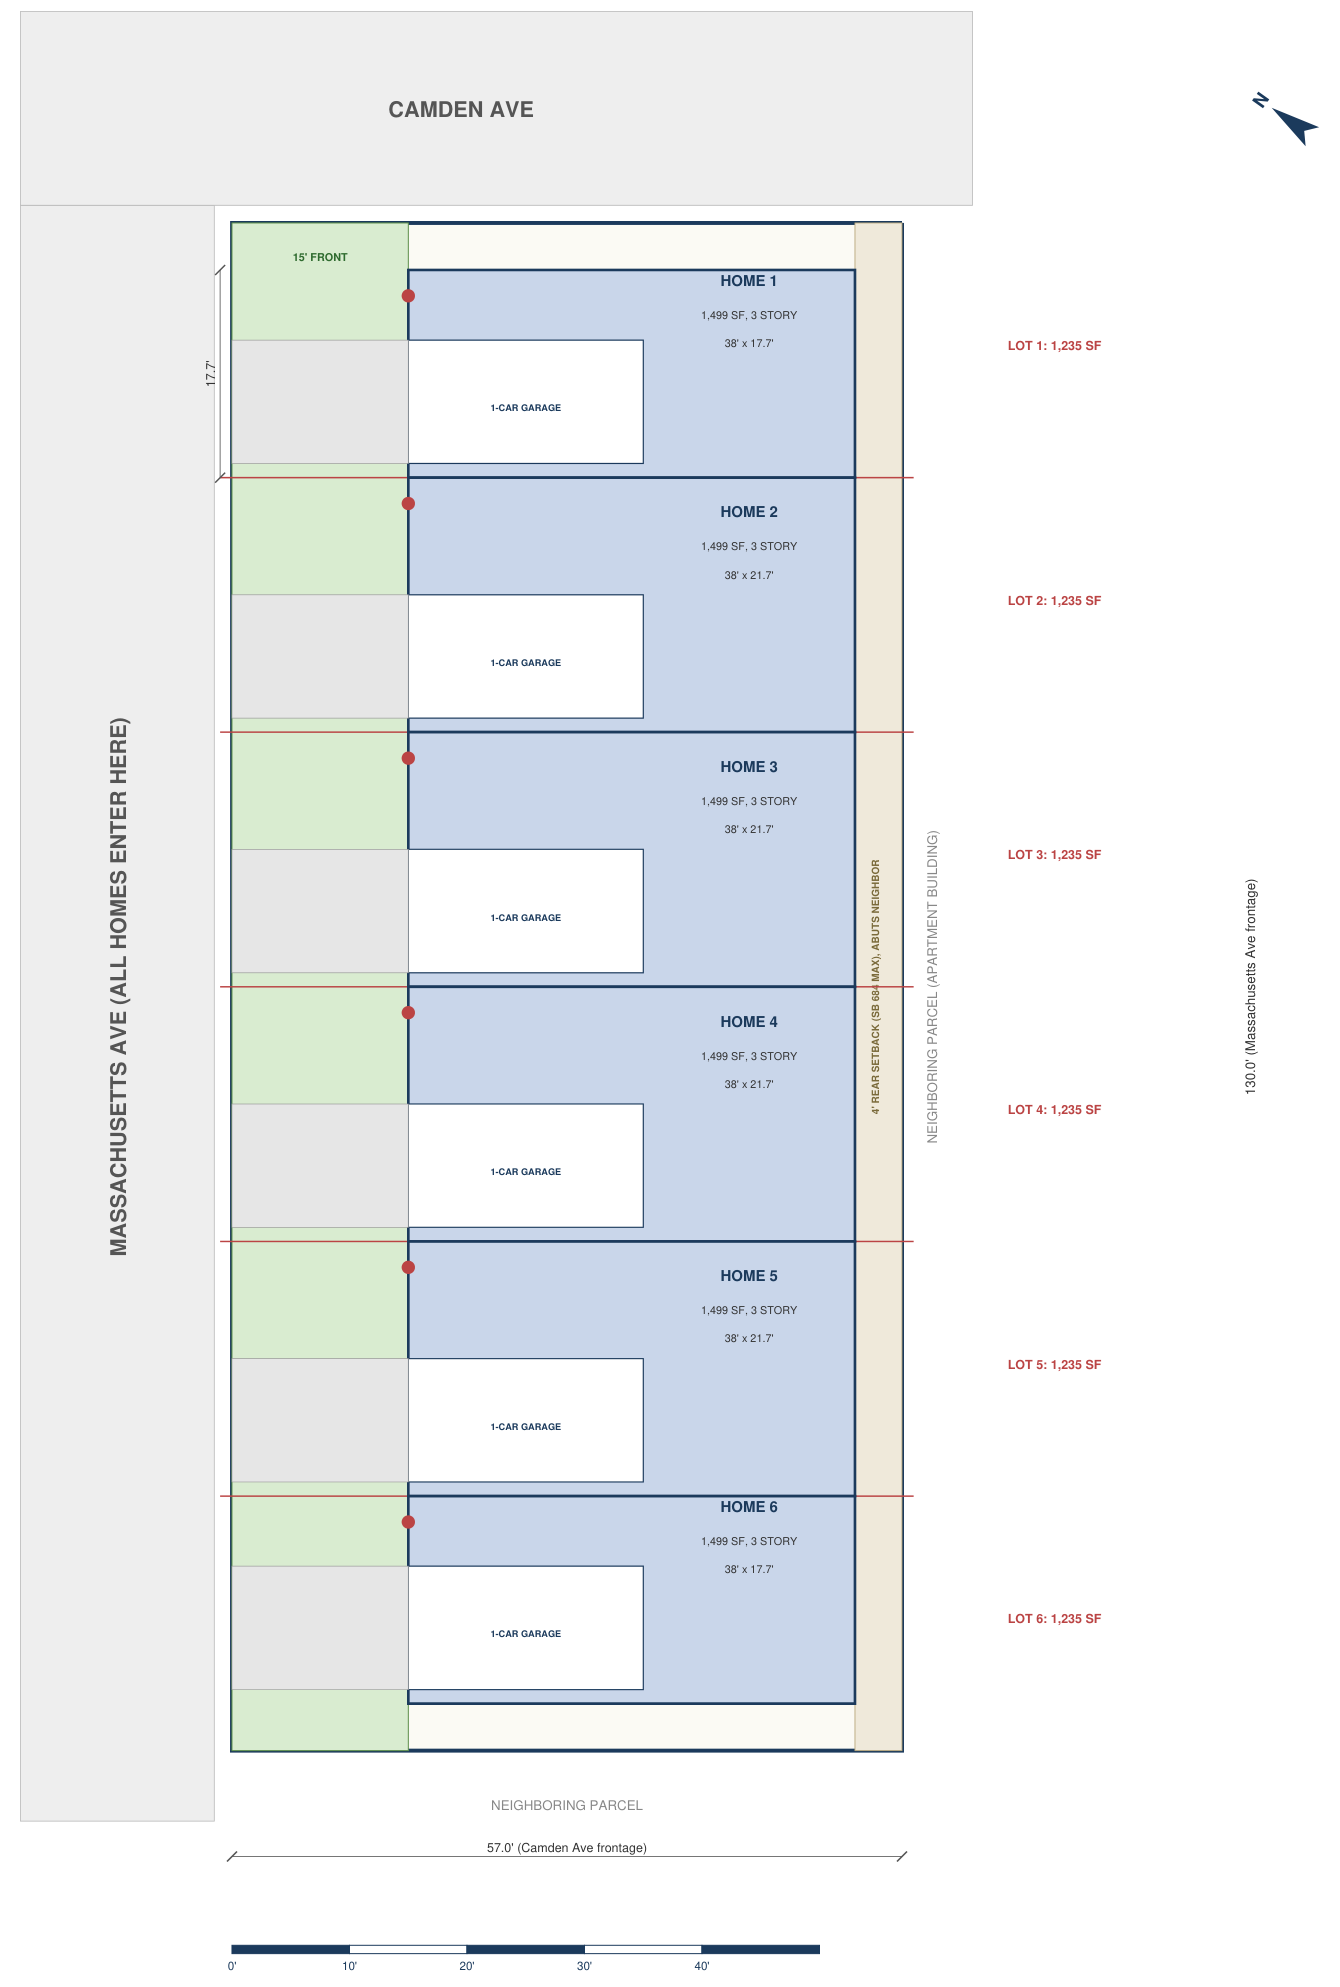
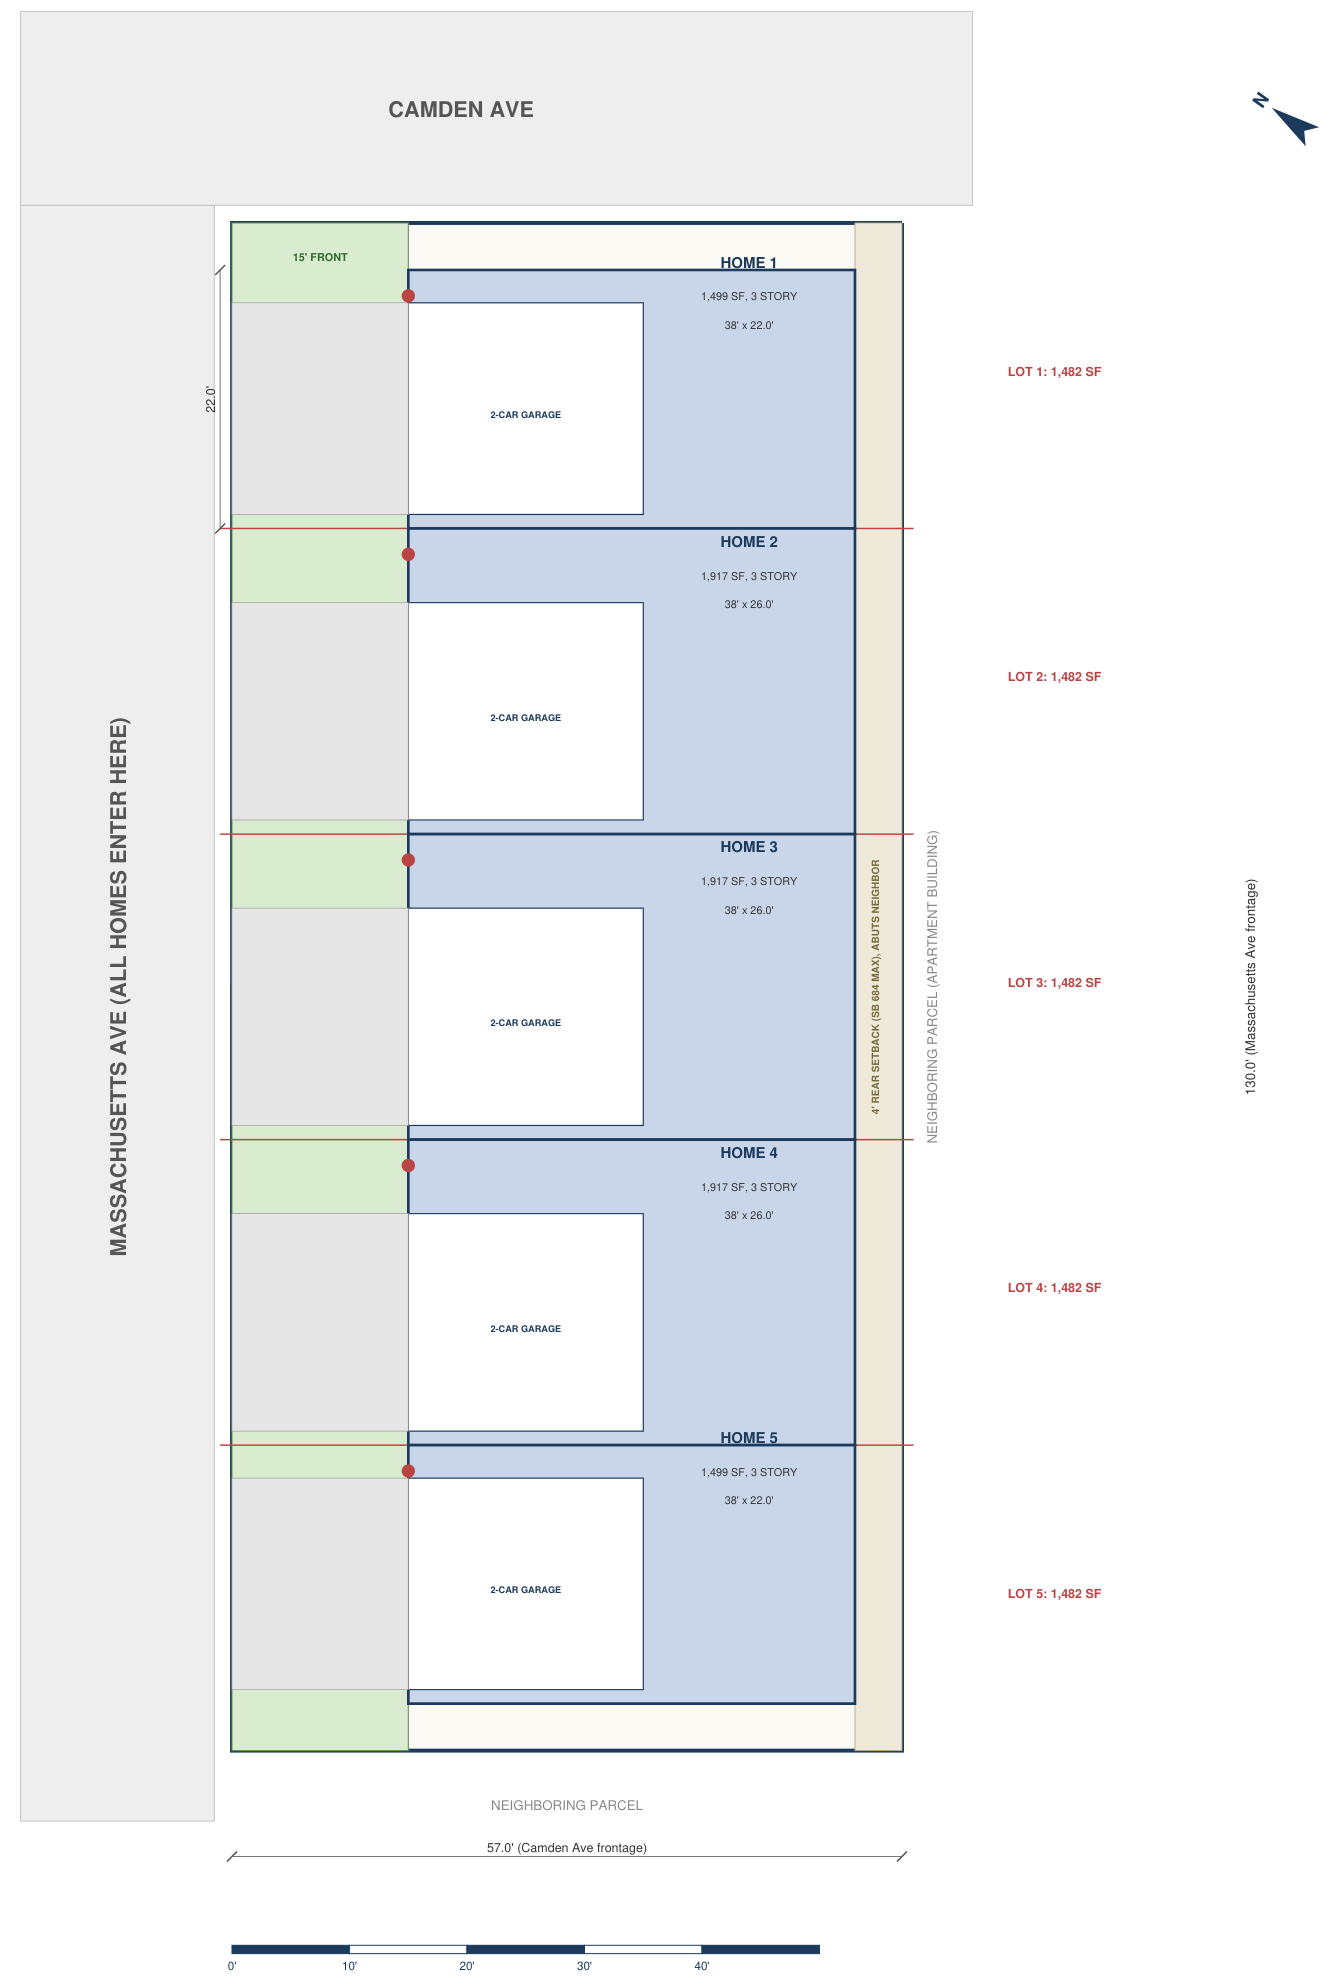
SB 684 section: owner-occupied route, 5 homes with 2-car garages, exits 900-1200, 25% margin

diff --git a/index.html b/index.html
@@ -169,7 +169,7 @@ header .badge{display:inline-block;background:#2f8a55;color:#fff;font-size:12px;
     <div class="s">It sold in March 2025 for $2,500,000 ($339.72 per land SF) with 10 rent-stabilized apartments on it. The buyer pulled a demolition permit in December 2025 and a permit for a five-story, 42-unit, 100% affordable building in May 2026, on 7,359 SF.</div>
   </div>
   <p>1601 Camden Avenue is a <b>7,411 SF corner lot</b> in the <b>[Q]R3-1-O</b> zone in Westwood, just north of Santa Monica Boulevard and east of the 405. It is improved with a 1948 duplex of 3,164 SF, both units registered under the City's Rent Stabilization Ordinance (RSO).</p>
-  <p>The value is the land. The site is in a <b>Transit Oriented Incentive Area (Tier 2)</b> under the City's Mixed Income Incentive Program, within half a mile of a major transit stop, in a TCAC/HCD <b>Highest Resource</b> area, and it is one of the City's Lower Income Rezoning Housing Element sites, which allow ministerial approval for qualifying projects. The City's rezoning inventory assumes 19 units here. Five development pathways apply, from keeping the duplex and adding two ADUs to a 100% affordable building of about 40 units. A for-sale small-lot subdivision under SB 684 and SB 1123, which we modeled in full, is not available while the RSO duplex stands. Redevelopment sites nearby sold for a median of $265.52 per land SF from 2025 on. We recommend pricing the property at <b>$2,000,000</b> ($269.87 per land SF).</p>
+  <p>The value is the land. The site is in a <b>Transit Oriented Incentive Area (Tier 2)</b> under the City's Mixed Income Incentive Program, within half a mile of a major transit stop, in a TCAC/HCD <b>Highest Resource</b> area, and it is one of the City's Lower Income Rezoning Housing Element sites, which allow ministerial approval for qualifying projects. The City's rezoning inventory assumes 19 units here. Five development pathways apply, from keeping the duplex and adding two ADUs to a 100% affordable building of about 40 units. Because the property is owner occupied, a for-sale small-lot subdivision under SB 684 is also possible: five homes with two-car garages, each entered from Massachusetts Avenue. Redevelopment sites nearby sold for a median of $265.52 per land SF from 2025 on. We recommend pricing the property at <b>$2,000,000</b> ($269.87 per land SF).</p>
   <div class="stat-band">
     <div class="stat"><div class="l">Lot</div><div class="v">7,411 SF</div><div class="s">0.17 acres, corner, about 57 x 130 ft</div></div>
     <div class="stat"><div class="l">Zoning</div><div class="v">[Q]R3-1-O</div><div class="s">Medium Residential</div></div>
@@ -300,7 +300,7 @@ header .badge{display:inline-block;background:#2f8a55;color:#fff;font-size:12px;
     <tr><td>C &middot; MIIP Transit Area 2</td><td class="num">~25 to 35</td><td>Per MIIP incentive set</td><td>Removed</td><td>Administrative</td></tr>
     <tr><td>D &middot; State density bonus</td><td class="num">~18 to 20</td><td>Per bonus tier</td><td>Removed</td><td>Ministerial or administrative</td></tr>
     <tr><td>E &middot; 100% affordable (ED 1 / AHIP)</td><td class="num">~38 to 42</td><td>100%</td><td>Removed</td><td>Ministerial</td></tr>
-    <tr><td>SB 684 / SB 1123 for-sale homes (modeled below)</td><td class="num">6 homes</td><td>None</td><td>Removed</td><td>Not available: RSO</td></tr>
+    <tr><td>SB 684 / SB 1123 for-sale homes (below)</td><td class="num">5 homes</td><td>None</td><td>Removed</td><td>Ministerial, owner-occupied</td></tr>
   </table>
   </div>
   <div class="info-callout"><strong>How to read these:</strong> Pathway A is the only route that keeps the duplex and its tenancies, and it suits an investor or a 1031 buyer. Pathways B through E all remove the duplex and are what a developer pays for: the more affordable units a buyer accepts, the more units the City allows. Pathway E has a working example on similar [Q]R3 zoning less than half a mile away. Pathway C's unit count turns on the floor area the City allows, which an architect should confirm first.</div>
@@ -309,39 +309,40 @@ header .badge{display:inline-block;background:#2f8a55;color:#fff;font-size:12px;
 
 <section class="card" id="sb1123">
   <h2>SB 684 / SB 1123 Small-Lot Homes</h2>
-  <div class="hl-banner" style="background:linear-gradient(135deg,#7a3b2e,#a0523d)">
-    <div class="t">Not Available While the Duplex Stands</div>
-    <div class="h">Small-lot subdivisions cannot demolish or alter rent-stabilized units, and both units here are on the RSO</div>
-    <div class="s">LA City Planning's guidance for SB 684 and SB 1123 projects: they "cannot involve the demolition or alteration of housing units subject to ... the City's Rent Stabilization Ordinance (RSO), or that have been occupied by tenants within the past 5 years," and they cannot be on a parcel where an Ellis Act withdrawal has occurred within 15 years. Withdrawing the units under the Ellis Act does not open the door: it starts the 15-year bar.</div>
+  <div class="hl-banner">
+    <div class="t">Possible Because the Property Is Owner Occupied</div>
+    <div class="h">Five for-sale homes, each with its own lot, front door and two-car garage on Massachusetts Avenue</div>
+    <div class="s">City guidance bars SB 684 and SB 1123 projects from demolishing units "subject to ... the City's Rent Stabilization Ordinance (RSO), or that have been occupied by tenants within the past 5 years," and from sites with an Ellis Act withdrawal in the past 15 years. This duplex is the owner's home and carries the homeowner's exemption, so no tenant has to leave and no Ellis Act withdrawal is needed. With no tenant in the past five years, and LAHD confirming that the owner-occupied units are exempt from the RSO, a home builder can remove the duplex and subdivide.</div>
   </div>
-  <p>SB 684 (2024) lets a builder on a multifamily-zoned lot like this one subdivide into as many as 10 small lots and sell each home separately, with ministerial approval, homes averaging no more than 1,750 SF, 4 ft side and rear setbacks and no more than one parking space per home; SB 1123 (2025) extended it to vacant single-family lots. Because it turns land into for-sale homes, it is often the highest-value use of a lot this size, so we modeled it in full with our SB 1123 underwriting tool, which covers both laws, to show what it would produce here and what the land would be worth to a home builder.</p>
-  <div class="img-frame" style="aspect-ratio:730/1082;max-width:520px;margin:0 auto;background:#fff;border:1px solid #e6e9ef"><img src="images/sb1123_site_plan.png" alt="Small-lot concept site plan, six homes entered from Massachusetts Ave"></div>
-  <div class="caption">Concept site plan from our SB 1123 tool, drawn to use the corner: six attached three-story homes of 1,499 SF, each on its own 1,235 SF lot (about 21.7 x 57 ft) with its front door and a one-car garage on Massachusetts Avenue. Because every home fronts a public street, the plan needs no common driveway, no backup aisle and no fire lane.</div>
+  <p>SB 684 (2024) lets a builder on a multifamily-zoned lot like this one subdivide into as many as 10 small lots and sell each home separately, with ministerial approval: homes averaging no more than 1,750 SF, 4 ft side and rear setbacks at most and no more than one required parking space per home. SB 1123 (2025) extended it to vacant single-family lots. Because it turns land into for-sale homes, it is often the highest-value use of a lot this size, and the corner makes this one unusually efficient: every home can face Massachusetts Avenue, so the plan needs no shared driveway at all. We modeled it with our SB 1123 underwriting tool, following two small-lot rows built nearby on the same pattern, 11333-11345 W Pearl St (2019) and 11733-11737 W Missouri Ave (2017).</p>
+  <div class="img-frame" style="aspect-ratio:730/1082;max-width:520px;margin:0 auto;background:#fff;border:1px solid #e6e9ef"><img src="images/sb1123_site_plan.png" alt="SB 684 concept site plan, five homes with two-car garages entered from Massachusetts Ave"></div>
+  <div class="caption">Concept site plan: five attached three-story homes in a row, each on its own 1,482 SF lot (26 x 57 ft) with its front door and a two-car garage on Massachusetts Avenue. The two corner-end homes are 1,499 SF and the three middle homes 1,917 SF, an average of 1,750 SF. Every home fronts a public street, so there is no common driveway, backup aisle or fire lane.</div>
   <div class="stat-band">
-    <div class="stat"><div class="l">Homes</div><div class="v">6</div><div class="s">3 stories, 1,499 SF each</div></div>
-    <div class="stat"><div class="l">Each Lot</div><div class="v">1,235 SF</div><div class="s">1,200 SF minimum</div></div>
-    <div class="stat"><div class="l">Project Cost</div><div class="v">$6.79M</div><div class="s">At a $2.0M land price</div></div>
-    <div class="stat"><div class="l">Breakeven Exit</div><div class="v">~$805/SF</div><div class="s">Of living area</div></div>
+    <div class="stat"><div class="l">Homes</div><div class="v">5</div><div class="s">3 stories, 2-car garages</div></div>
+    <div class="stat"><div class="l">Each Lot</div><div class="v">1,482 SF</div><div class="s">1,200 SF minimum</div></div>
+    <div class="stat"><div class="l">Project Cost</div><div class="v">$6.72M</div><div class="s">At a $2.0M land price</div></div>
+    <div class="stat green"><div class="l">Land Value, Base Exit</div><div class="v">$1.86M</div><div class="s">At a 25% builder margin</div></div>
   </div>
-  <h3>What It Would Pencil To</h3>
+  <h3>What It Pencils To</h3>
   <div class="table-scroll">
   <table>
     <tr><th>Exit Scenario</th><th class="num">Low</th><th class="num">Base</th><th class="num">High</th><th class="num">Best</th></tr>
-    <tr><td>Exit $/SF of living area</td><td class="num">$770</td><td class="num">$1,000</td><td class="num">$1,100</td><td class="num">$1,175</td></tr>
-    <tr><td>Price per home</td><td class="num">$1,154,230</td><td class="num">$1,499,000</td><td class="num">$1,648,900</td><td class="num">$1,761,325</td></tr>
-    <tr><td>Gross sellout, 6 homes</td><td class="num">$6,925,380</td><td class="num">$8,994,000</td><td class="num">$9,893,400</td><td class="num">$10,567,950</td></tr>
-    <tr><td>Profit at a $2,000,000 land price</td><td class="num">($295,270)</td><td class="num">$1,644,062</td><td class="num">$2,487,249</td><td class="num">$3,119,640</td></tr>
-    <tr><td>Margin on cost</td><td class="num">-4.3%</td><td class="num">24.2%</td><td class="num">36.6%</td><td class="num">46.0%</td></tr>
-    <tr class="avg"><td>Land value at a 15% builder margin</td><td class="num">$877,877</td><td class="num">$2,564,252</td><td class="num">$3,297,458</td><td class="num">$3,847,363</td></tr>
+    <tr><td>Exit $/SF of living area</td><td class="num">$900</td><td class="num">$1,000</td><td class="num">$1,100</td><td class="num">$1,200</td></tr>
+    <tr><td>Average price per home</td><td class="num">$1,575,000</td><td class="num">$1,750,000</td><td class="num">$1,925,000</td><td class="num">$2,100,000</td></tr>
+    <tr><td>Gross sellout, 5 homes</td><td class="num">$7,875,000</td><td class="num">$8,750,000</td><td class="num">$9,625,000</td><td class="num">$10,500,000</td></tr>
+    <tr><td>Profit at a $2,000,000 land price</td><td class="num">$662,038</td><td class="num">$1,482,350</td><td class="num">$2,302,663</td><td class="num">$3,122,975</td></tr>
+    <tr><td>Margin on cost</td><td class="num">9.9%</td><td class="num">22.1%</td><td class="num">34.3%</td><td class="num">46.5%</td></tr>
+    <tr class="avg"><td>Land value at a 25% builder margin</td><td class="num">$1,205,475</td><td class="num">$1,861,725</td><td class="num">$2,517,975</td><td class="num">$3,174,225</td></tr>
   </table>
   </div>
-  <p class="fn">Exits from LA County sale records, 2025 on: Low is a 2018 condo at 1553 Armacost Ave #202 ($770/SF, February 2025); Base is newer Westwood and West LA condos, 1644 Bentley Ave PH, 0.08 miles away ($1,007/SF, January 2025) and 1839 Pandora Ave C ($1,040/SF, December 2025); High and Best are new detached homes, 2126 Pelham Ave ($1,174/SF, May 2025) and 2255 Camden Ave ($1,182/SF, January 2025). Costs are concept-level: $350/SF all-in hard cost, $390,000 for entitlement, design and engineering, $589,499 in permits and fees, $45,000 for demolition and a 33-month schedule; not bids. Homes are designed at 1,499 SF to stay under the Linkage Fee threshold. A fault investigation and methane mitigation are not separately budgeted.</p>
+  <p class="fn">Exits are set against LA County sale records, 2025 on: Base and Low sit at and below newer Westwood and West LA condos, 1644 Bentley Ave PH, 0.08 miles away ($1,007/SF, January 2025) and 1839 Pandora Ave C ($1,040/SF, December 2025); High and Best bracket new detached homes, 2126 Pelham Ave ($1,174/SF, May 2025) and 2255 Camden Ave ($1,182/SF, January 2025). Costs are concept-level: $350/SF all-in hard cost, $390,000 for entitlement, design and engineering, $497,738 in permits and fees, $133,438 in Affordable Housing Linkage Fee on the three homes over 1,500 SF ($23.20/SF, the City's July 2025 rate for a High Market Area), $45,000 for demolition and a 32-month schedule; not bids. A fault investigation and methane mitigation are not separately budgeted. Breakeven is about $819/SF.</p>
   <div class="tk-grid">
-    <div class="tk"><span class="n">1</span><br><b>What it would have been worth.</b> At the base exit, a home builder could pay about $2.56M for this land and still earn a 15% margin. Because the route is closed, that is a reference figure only; the price stands on the multifamily pathways.</div>
-    <div class="tk"><span class="n">2</span><br><b>Why it stays off the table.</b> Both units are registered under the RSO, and an Ellis Act withdrawal starts a 15-year bar. A home builder cannot use this route, and buyers will not pay for it.</div>
-    <div class="tk"><span class="n">3</span><br><b>Where the for-sale idea still fits.</b> A buyer who wants for-sale product can build condominiums through Pathway C or D and map them as a condo tract, which SB 684 does not govern.</div>
+    <div class="tk"><span class="n">1</span><br><b>What a home builder can pay.</b> Underwriting to a 25% margin on cost, a builder can pay about $1.86M at the base exit and $2.52M at the high exit. Our $2,000,000 price works at an exit of about $1,020/SF, and at $2,000,000 the base case earns 22.1% on cost.</div>
+    <div class="tk"><span class="n">2</span><br><b>What keeps it open.</b> The route depends on the property staying owner occupied, with no tenant in the past five years, and on LAHD confirming the units' exemption. Renting either unit before a sale would close it.</div>
+    <div class="tk"><span class="n">3</span><br><b>A built pattern nearby.</b> Pearl St's eight homes, on a 7,171 SF corner lot of almost the same shape, resold for $1,500,000 to $1,588,000 in 2022. Iowa Ave's small-lot homes sold for $1,750,000 to $1,825,000 (about $1,000/SF) in May 2023.</div>
   </div>
 </section>
+
 
 <section class="card" id="comps">
   <h2>Land Sales Comparables</h2>
@@ -407,10 +408,10 @@ header .badge{display:inline-block;background:#2f8a55;color:#fff;font-size:12px;
     <div class="pc-box"><div class="l">Per Land SF</div><div class="v">$269.87</div><div class="s">2025-on median $265.52</div></div>
     <div class="pc-box"><div class="l">Per Unit, MIIP Transit</div><div class="v">~$57,000 to $80,000</div><div class="s">On ~25 to 35 units</div></div>
     <div class="pc-box"><div class="l">Per Unit, 100% Affordable</div><div class="v">~$50,000</div><div class="s">On ~40 units; 1723 S Corinth $59,524</div></div>
-    <div class="pc-box"><div class="l">Same-Zone RSO Sales</div><div class="v">$302 to $340</div><div class="s">Per land SF, within half a mile</div></div>
+    <div class="pc-box"><div class="l">SB 684 Home Builder</div><div class="v">$1.86M to $2.52M</div><div class="s">Land value at a 25% margin, base to high exit</div></div>
   </div>
   <p>At $2,000,000 the lot is priced at $269.87 per land SF, right at the median of the six redevelopment sites that sold nearby in 2025 and 2026 ($265.52) and below the two [Q]R3 sites within half a mile, 1521-1523 S Veteran at $302.32 and 1723 S Corinth at $339.72. Both of those carried rent-stabilized units, as this one does, and both had a larger plan on file when they sold; this lot brings a corner location, the City's transit incentives and a Highest Resource address.</p>
-  <p>The per-unit price on the multifamily pathways supports the same number, and our small-lot home model, though that route is closed here, would support a higher land value at a base exit. Buyers who would keep the duplex have paid less, so the property should be marketed to developers. The sale is well below the City's Measure ULA threshold of $5,400,000, so no ULA tax applies.</p>
+  <p>The per-unit price on the multifamily pathways supports the same number, and our small-lot home model, possible here because the property is owner occupied, shows a home builder underwriting a 25% margin could pay $1.86M to $2.52M between the base and high exits. Buyers who would keep the duplex have paid less, so the property should be marketed to developers and home builders. The sale is well below the City's Measure ULA threshold of $5,400,000, so no ULA tax applies.</p>
 </section>
 
 <section class="card" id="marketing">
